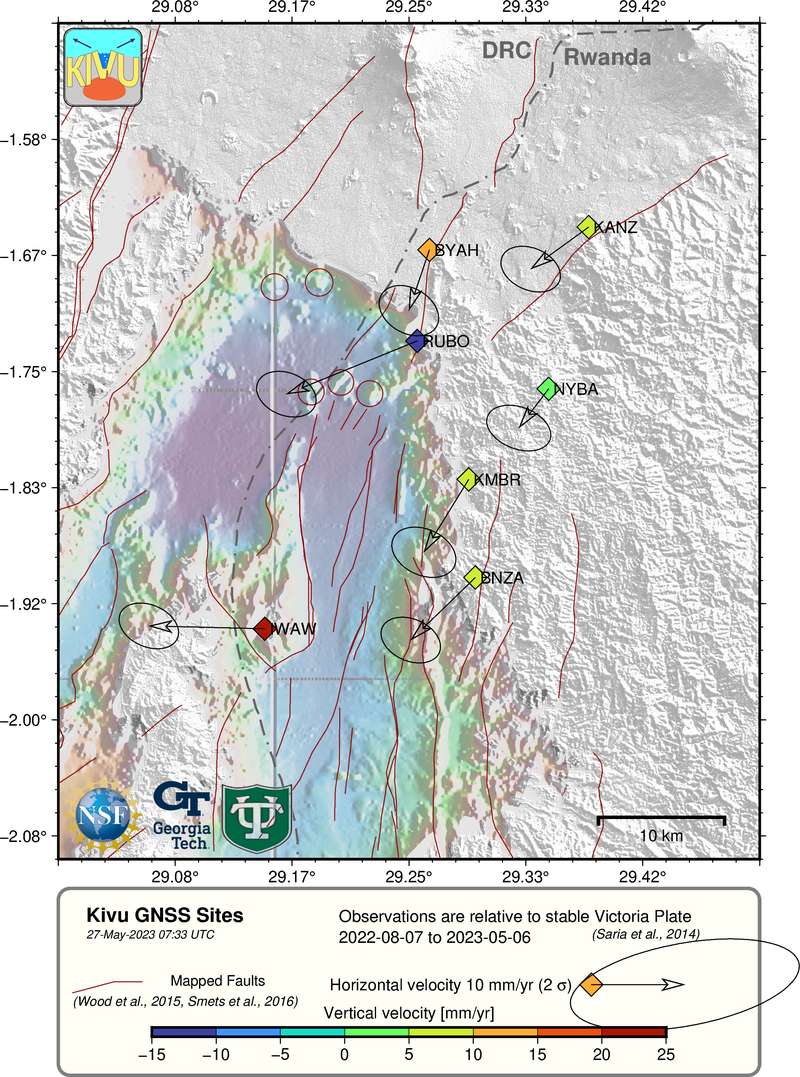
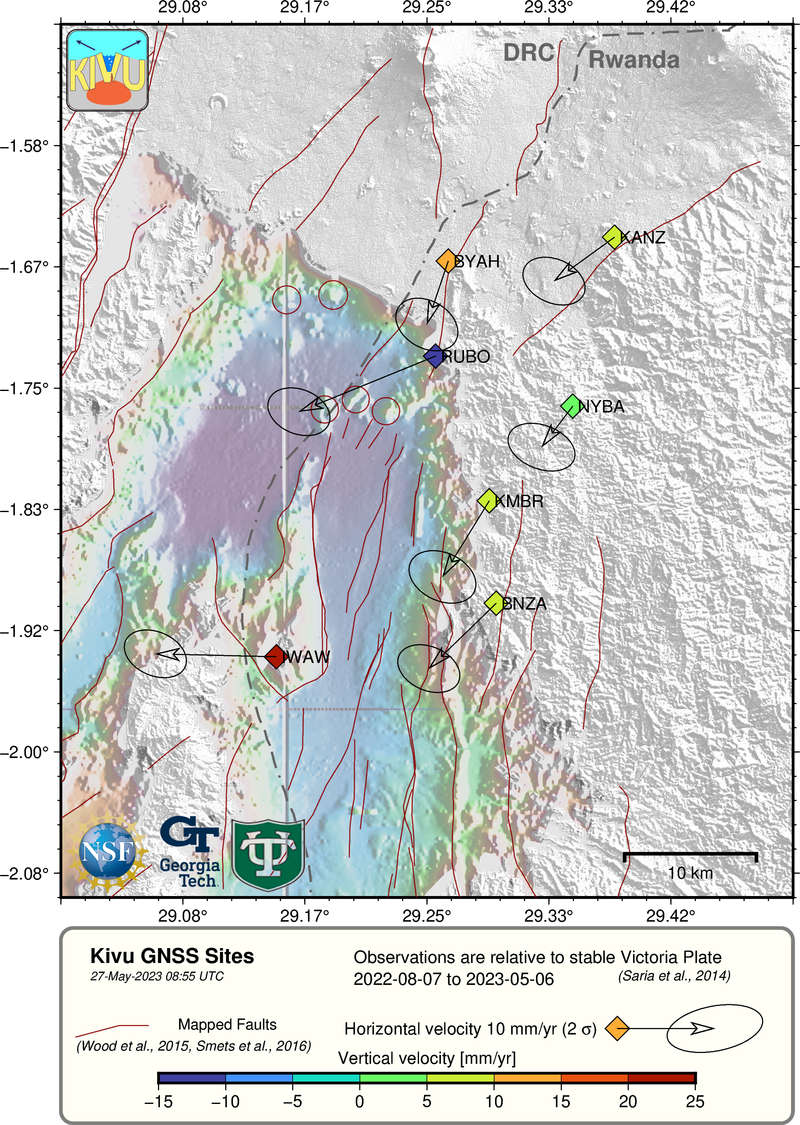
Auto-update: Sat May 27 04:58:28 EDT 2023

diff --git a/processing/bin/Kivu_GNSS_Map.py b/processing/bin/Kivu_GNSS_Map.py
@@ -54,7 +54,8 @@ data=rates[["Long","Lat","Evel-loc","Nvel-loc","Eerr","Nerr","ENcor","Uvel","STA
 # add legend velocity
 vslat = float(-2.19)
 vslong = float(29.38)
-velscale = pd.Series([vslong,vslat, 10, 0, 5, 2, 0.4, 10, " "],index=data.columns)
+velscale = pd.Series([vslong,vslat, 10, 0, 2, 1, 0.3, 10, " "],index=data.columns)
+
 vdf=velscale.to_frame().T
 # Need to reset floats to all be floats again...pita
 vdf[["Long","Lat","Evel-loc","Nvel-loc","Eerr","Nerr","ENcor","Uvel"]] = vdf[["Long","Lat","Evel-loc","Nvel-loc","Eerr","Nerr","ENcor","Uvel"]].apply(pd.to_numeric)
